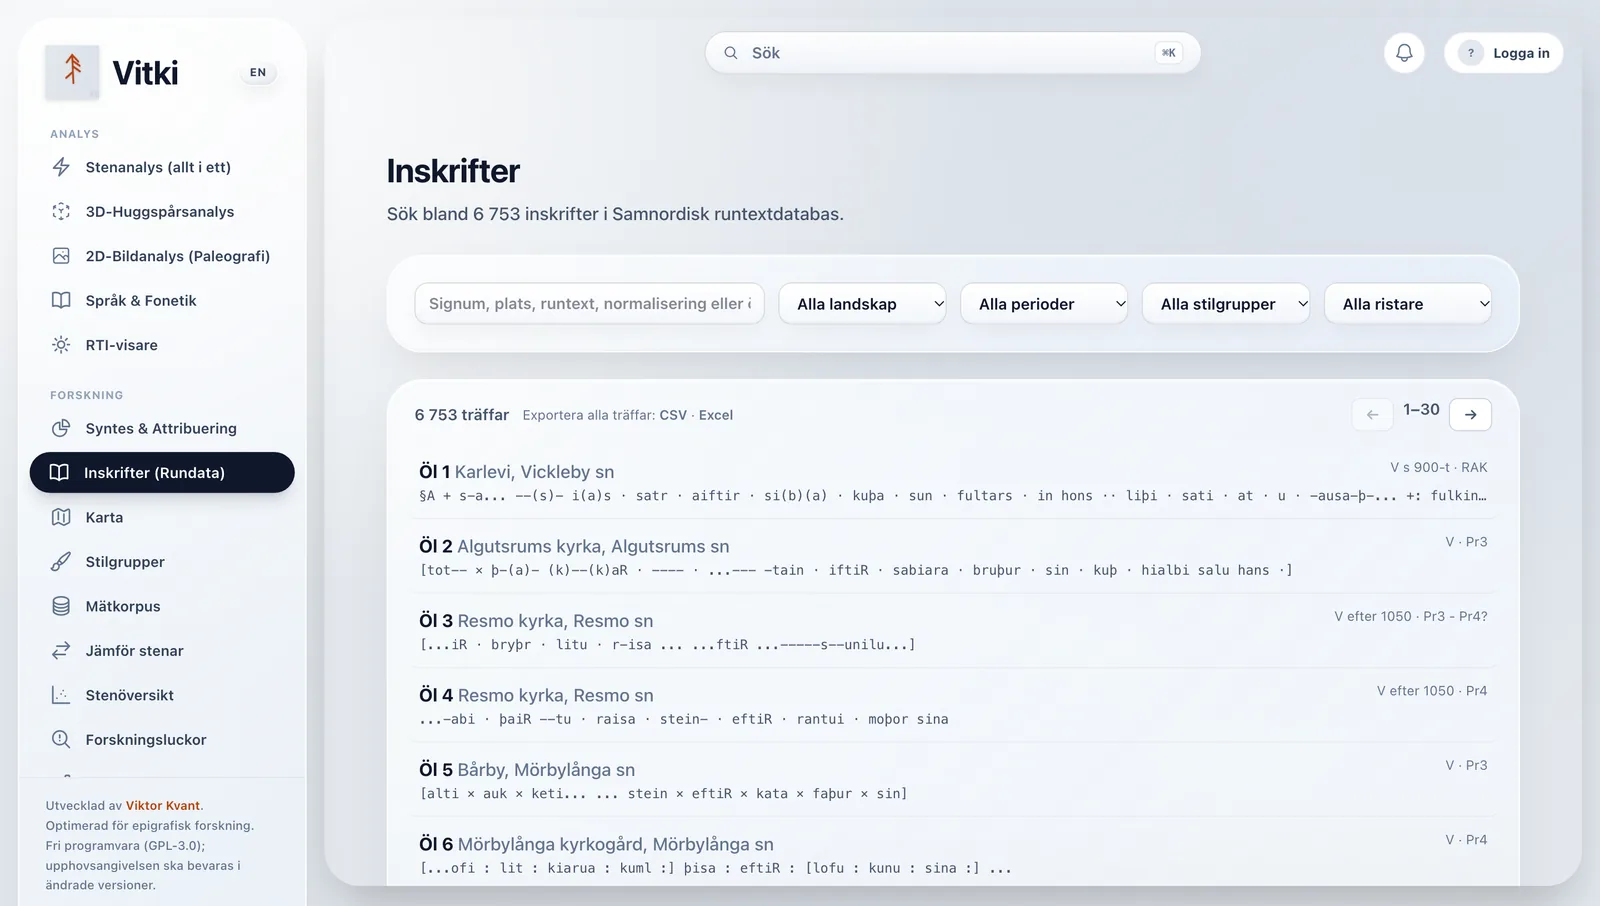
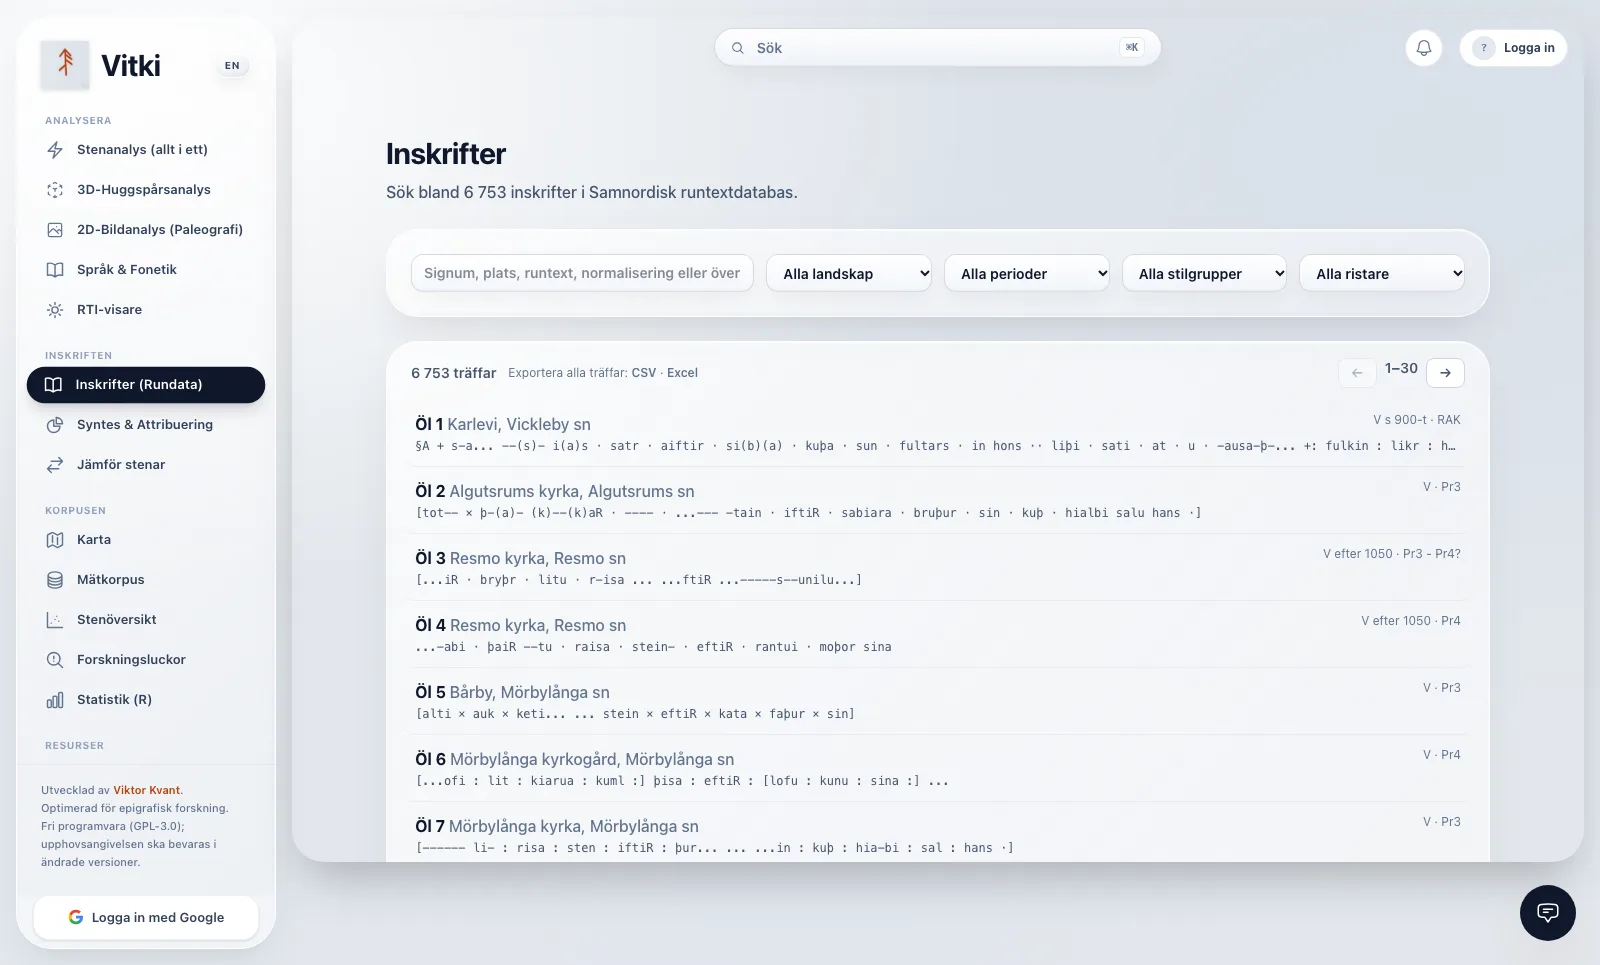
Nya skärmdumpar med nya menyn och artikeldata på textmodel-18
Hemsidans fem appbilder är omtagna ur den byggda appen med den nya
fyrgruppsmenyn (karta, inskrifter, statistik, forskningsluckor, stenöversikt).
Artikelbygget för 'Runorna som fattas' läser nu mask4-generationen som
VALIDATION bygger på, siffrorna är omräknade på textmodel-18 och utkastet i
Firestore är uppdaterat (opublicerat). Svagheten Namnen fick en mening om
namnkvoten: åtta maskerade luckor vunna, ingen förlorad.

diff --git a/utdata/modellartikel/runstenar.py b/utdata/modellartikel/runstenar.py
@@ -1,0 +1,134 @@
+"""Artikelns siffror uppdelade efter vad inskriften står på (2026-10-17, Viktors regel: runstenar först, andra föremål
+redovisas för sig). Runstenar = Rundatas föremål "runsten", också fragment och försvunna stenar; andra stenar = gravhällar,
+berghällar, block m.m.; lösa föremål = metall, ben, horn, trä m.m. Läsprovet (kalib_klass.json), maskeringsprovet
+(maskklass_f*.json), de verkliga luckorna med den korsvaliderade kalibreringen (klass_alla.json) och nattkörningen
+(sammanstallning.json, med utgivarnas status som i batch_status.py). Skriver runstenar.json.
+    cd aagaard-research && PYTHONPATH=. .venv/bin/python utdata/modellartikel/runstenar.py"""
+import json
+import os
+import re
+import sys
+import zlib
+from collections import Counter, defaultdict
+
+import numpy as np
+
+HERE = os.path.dirname(os.path.abspath(__file__))
+ROOT = os.path.abspath(os.path.join(HERE, "..", ".."))
+sys.path.insert(0, ROOT)
+import scripts.runlm_gap_calibrate as C  # noqa: E402
+import scripts.runlm_gaps as G  # noqa: E402
+from scripts.luckprov import status_of  # noqa: E402
+from src import runlm as rl  # noqa: E402
+from src.textmodel import gap_class, name_keys  # noqa: E402
+
+F = os.path.join(ROOT, "utdata", "runlm_forfining")
+recs = rl.load_rundata()
+by = {r["signum"]: r for r in recs}
+KINDS = ("runsten", "annan sten", "lösa föremål")
+
+
+def kind(sig):
+    r = by[sig]
+    if "runsten" in (r.get("object") or "").lower():
+        return "runsten"
+    return "annan sten" if r.get("material_type") == "sten" else "lösa föremål"
+
+
+out = {}
+V = [r for r in recs if rl.viking(r) and r.get("transliteration") and r.get("normalization")]
+out["viking"] = dict(Counter(kind(r["signum"]) for r in V))
+
+# --- the reading test
+kk = json.load(open(os.path.join(F, "kalib_tm14_egend.json")))  # textmodel-15: the carver's own divider rate
+rd = defaultdict(lambda: {"inscriptions": set(), "words": 0, "same": 0, "span": 0})
+for sig, same, span in kk["per_word"]:
+    g = rd[kind(sig)]
+    g["inscriptions"].add(sig); g["words"] += 1; g["same"] += bool(same); g["span"] += bool(span)
+out["reading"] = {k: {"inscriptions": len(g["inscriptions"]), "words": g["words"], "same": g["same"] / g["words"], "span": g["span"] / g["words"]}
+                  for k, g in rd.items()}
+
+# --- the masking test
+mk = defaultdict(lambda: [0, 0])
+for f in range(5):
+    for x in json.load(open(os.path.join(F, f"mask4_f{f}.json")))["rows"]:
+        g = mk[(kind(x["sig"]), x["kind"])]
+        g[0] += 1; g[1] += bool(x["word_ok"])
+out["masking"] = {f"{k}|{t}": {"n": n, "right": r / n} for (k, t), (n, r) in mk.items()}
+
+
+# --- the real gaps the editors filled, with the cross-validated calibration (as kalibrering.json, split by kind)
+def interpreted(sig):
+    n = re.sub(r"<[^>]*>", " ", by[sig].get("normalization") or "") if sig in by else ""
+    return sum(1 for _, p in rl.sections(n) for w in rl.norm_words(p) if not w.startswith("...")) >= 2
+
+
+known = lambda x: bool(x["word"]) and x["word"] != "<unk>"  # noqa: E731
+agree = lambda x: bool(x["agrees"]) or rl.same_word(x["word"].lstrip("§"), x["rundata"])  # noqa: E731
+rest = [x for x in json.load(open(os.path.join(F, "klass3_alla.json")))["rows"] if interpreted(x["sig"]) and x["status"] == "återställt"]
+val = [x for x in rest if known(x)]
+top, names = C.top_words(recs), name_keys(recs)
+# textmodel-15: the calibration the app uses (scripts/runlm_gap_calibrate.py, restored + documented + masked gaps,
+# at the documented level), cross-validated: each restored gap gets its percentage from a fit without its stone
+X = np.array([C.features(x["p"], gap_class(x["word"], top, names, True), len(x["fill"]), 4, False) for x in val])
+y = np.array([1.0 if agree(x) else 0.0 for x in val])
+fold = np.array([zlib.crc32(x["sig"].encode()) % 5 for x in val])
+X1, y1, s1, _ = C.documented_rows(os.path.join(F, "dok_egend"), top, names, 4, whole=True)
+X2, y2, s2, _, _ = C.masked_rows(os.path.join(F, "mask3"), top, names, by, 4)
+f1 = np.array([zlib.crc32(s_.encode()) % 5 for s_ in s1])
+f2 = np.array([zlib.crc32(s_.encode()) % 5 for s_ in s2])
+src = lambda n, a, b: np.hstack([np.full((n, 1), a), np.full((n, 1), b)])  # noqa: E731
+XA = np.vstack([np.hstack([X, src(len(X), 0, 0)]), np.hstack([X1, src(len(X1), 0, 1)]), np.hstack([X2, src(len(X2), 1, 0)])])
+yA, fA = np.concatenate([y, y1, y2]), np.concatenate([fold, f1, f2])
+q = np.zeros(len(y))
+for k in range(5):
+    w = C.fit(XA[fA != k], yA[fA != k])
+    q[fold == k] = 1 / (1 + np.exp(-(np.hstack([X[fold == k], src(int((fold == k).sum()), 0, 1)]) @ w)))
+ks = np.array([kind(x["sig"]) for x in val])
+acls = [gap_class(re.sub(r"[\[\]\"(){}.,?…]", "", x["rundata"]), top, names) for x in val]
+gaps = {}
+for k in KINDS:
+    m = ks == k
+    bins = []
+    for lo, hi in ((0, .5), (.5, .8), (.8, .95), (.95, 1.01)):
+        b = m & (q >= lo) & (q < hi)
+        bins.append({"lo": lo, "hi": hi, "n": int(b.sum()), "said": float(q[b].mean()) if b.any() else None, "right": float(y[b].mean()) if b.any() else None})
+    cls = {c: {"n": int(sum(1 for i in range(len(val)) if m[i] and acls[i] == c)),
+               "right": float(np.mean([y[i] for i in range(len(val)) if m[i] and acls[i] == c])) if any(m[i] and acls[i] == c for i in range(len(val))) else None}
+           for c in (0, 1, 2)}
+    gaps[k] = {"restored": sum(1 for x in rest if kind(x["sig"]) == k), "stones": len({x["sig"] for x in rest if kind(x["sig"]) == k}),
+               "known": int(m.sum()), "right": float(y[m].mean()), "bins": bins, "by_class": cls}
+out["gaps"] = gaps
+out["documented"] = json.load(open(os.path.join(F, "dok_bins.json")))  # utdata/runlm_forfining/dok_bins.py
+
+# --- the night run over all inscriptions with gaps, and what the editors did with each gap
+S = json.load(open(os.path.join(ROOT, "utdata", "textmodel_batch", "sammanstallning.json")))
+rec = {r["signum"]: r for r in G.SW}
+idx = defaultdict(list)
+for sig, r in rec.items():
+    for groups, gap, w_, tok in G.gaps_of(r):
+        idx[(sig, groups[gap[0]])].append((gap[1], gap[2], tok))
+
+
+def band(x):
+    if not x["word"] or x["word"] == "<unk>":
+        return "inget förslag"
+    p = x["p"]
+    return "≥95" if p >= 0.95 else "80–95" if p >= 0.8 else "50–80" if p >= 0.5 else "<50"
+
+
+batch = {}
+for k in KINDS:
+    rows = [x for x in S["rows"] if kind(x["signum"]) == k]
+    st = defaultdict(Counter)
+    for x in rows:
+        m_ = [t for a, b, t in idx.get((x["signum"], x["carved"]), []) if a < x["end"] and x["start"] < b]
+        s_ = status_of(m_[0]) if m_ else ("utanför provet" if x["signum"] in rec else "ej svensk")
+        st[s_][band(x)] += 1
+    batch[k] = {"inscriptions": len({x["signum"] for x in rows}), "gaps": len(rows), "too_few": sum(1 for s in S["missing"] if kind(s) == k),
+                "bands": dict(Counter(map(band, rows))), "boundaries": sum(x["boundary"] for x in rows),
+                "status": {s_: dict(c) for s_, c in st.items()}}
+out["batch"] = batch
+json.dump(out, open(os.path.join(HERE, "runstenar.json"), "w"), ensure_ascii=False, indent=1)
+print(json.dumps({k: v for k, v in out.items() if k != "gaps"}, ensure_ascii=False, indent=1)[:3500])
+print(json.dumps(out["gaps"]["runsten"], ensure_ascii=False, indent=1))

diff --git a/utdata/blogg/build/build_modellartikel.py b/utdata/blogg/build/build_modellartikel.py
@@ -309,7 +309,7 @@ Liknande verktyg har byggts för grekiska inskrifter, där modellen Ithaca före
 Det återstår arbete innan modellen kommer ut i appen:
 
 - **Spår ur skanningarna.** I dag räknar modellen bara med spår som någon har lagt in för hand, men läsaren som ska hämta dem direkt ur 3D-skanningen är på god väg. Bistavarna, som skiljer runorna åt, går inte att lita på i de uttunnade spårlinjerna – de läses nu i stället ur själva djupbilden, viktade efter hur djupt de är huggna. I ett första prov på {SCN['stones']} skannade stenar, där hela ord maskerades och fylldes av en modell som aldrig sett stenen, steg andelen rätt från {svn(100 * SCN['utan'], 1)} till {svn(100 * SCN['skanner'], 1)} procent när skannerns spår fick hjälpa till – och med spåren slumpvis omflyttade mellan stenens runor försvann hela vinsten. Det är alltså stenen som läses, inte en räknelek. Vid svårt vittrade partier kan spåren vilseleda, så panelen visar vad skannern ser – bistavarna med huggdjup och de möjliga runorna – och spåren räknas först när användaren har bekräftat dem. En runa med fler djupa bistavar än någon runa har, en möjlig bindruna, föreslår inget alls.
-- **Namnen.** Namn blir rätt i {svn(PCT_CLS[2])} procent av utgivarnas luckor, mot {svn(PCT_CLS[0])} för formelord. De flesta fel i de dokumenterade luckorna gäller namn.
+- **Namnen.** Namn blir rätt i {svn(PCT_CLS[2])} procent av utgivarnas luckor, mot {svn(PCT_CLS[0])} för formelord. De flesta fel i de dokumenterade luckorna gäller namn. Den senaste versionen tog ett steg just här: namnbyggarens förslag föll tidigare bort ur kandidatlistan innan de hann vägas, och när de fick en egen plats (textmodel-18) vann modellen åtta maskerade luckor – bland dem namnen *Guðfastr* och *Þormóðr* – utan att förlora någon.
 - **Fler texter från Danmark och Norge**, så att måttstocken blir lika rättvis för alla länder.
 - **Böjningen.** Modellen kan inte kasus och kongruens. Det gäller dock bara omkring ett ord av hundra i läsprovet, mest namn i fel kasus. Det mesta av det som ser ut som fel form är i stället olika normaliseringar i Rundata, som *sin* och *sinn*.
 - **Facit.** Utgivarnas ifyllning är själv en bedömning. Maskeringsprovet och de dokumenterade luckorna har säkrare facit.
@@ -541,7 +541,7 @@ Similar tools have been built for Greek inscriptions, where the model Ithaca pro
 Work remains before the model comes out in the app:
 
 - **Traces from the scans.** Today the model only counts traces that someone has entered by hand, but the reader that will take them straight from the 3D scan is well under way. The branches, which tell the runes apart, cannot be trusted in the thinned groove lines – they are now read from the depth image itself instead, weighted by how deeply they are carved. In a first test on {SCN['stones']} scanned stones, where whole words were masked and filled by a model that had never seen the stone, the share right rose from {enn(100 * SCN['utan'], 1)} to {enn(100 * SCN['skanner'], 1)} per cent when the scanner's traces were allowed to help – and with the traces randomly reshuffled among the stone's runes the whole gain vanished. So it is the stone that is being read, not an exercise in numbers. At badly weathered patches the traces can mislead, so the panel shows what the scanner sees – the branches with their carving depth and the possible runes – and the traces only count once the user has confirmed them. A rune with more deep branches than any rune holds, a possible bind rune, proposes nothing at all.
-- **Names.** Names are right in {enn(PCT_CLS[2])} per cent of the editors' gaps, against {enn(PCT_CLS[0])} for formula words. Most errors in the documented gaps concern names.
+- **Names.** Names are right in {enn(PCT_CLS[2])} per cent of the editors' gaps, against {enn(PCT_CLS[0])} for formula words. Most errors in the documented gaps concern names. The latest version took a step right here: the name builder's proposals used to be cut from the candidate list before they could be weighed, and when they were given a place of their own (textmodel-18) the model won eight masked gaps – among them the names *Guðfastr* and *Þormóðr* – without losing any.
 - **More texts from Denmark and Norway**, so that the yardstick is equally fair to every country.
 - **Inflection.** The model does not know case and agreement. That concerns only about one word in a hundred in the reading test, however, mostly names in the wrong case. Most of what looks like a wrong form is instead different normalizations in Rundata, such as *sin* and *sinn*.
 - **The answer key.** The editors' restoration is itself a judgement. The masking test and the documented gaps have a firmer answer.

diff --git a/utdata/blogg/build/build_modellartikel_data.py b/utdata/blogg/build/build_modellartikel_data.py
@@ -35,8 +35,9 @@ D["reading"] = {"inscriptions": RT["n_inscriptions"], "words": RT["n_gold"], "sa
                 "by_kind": RS["reading"]}
 assert RT["n_inscriptions"] == 808 and pr(RT["same"]) == 84 and pr(RT["span"]) == 95
 
-# --- the masking test (mask3), the hard masking test (svart: only words outside the 50 commonest) and the traces
-mask = [x for k in range(5) for x in J(F, f"mask3_f{k}.json")["rows"] if rs(x["sig"])]
+# --- the masking test (mask4, the generation textmodel-18's VALIDATION uses), the hard masking test (svart: only
+# words outside the 50 commonest) and the traces
+mask = [x for k in range(5) for x in J(F, f"mask4_f{k}.json")["rows"] if rs(x["sig"])]
 hard = [x for k in range(5) for x in J(F, f"svart_f{k}.json")["rows"] if rs(x["sig"])]
 G = tm._records()["G"]
 
@@ -66,7 +67,7 @@ D["hard"] = {kind: {"n": sum(x["kind"] == kind for x in hard), "right": float(np
                     "cal": cal_bins([x for x in hard if x["kind"] == kind])} for kind in ("inne i ord", "helt ord")}
 D["hard"]["pooled"] = cal_bins(hard)
 assert pr(D["masking"]["inne i ord"]["right"]) == pr(tm.VALIDATION["inside_word"]) == 76
-assert pr(D["masking"]["helt ord"]["right"]) == pr(tm.VALIDATION["whole_word"]) == 60
+assert pr(D["masking"]["helt ord"]["right"]) == pr(tm.VALIDATION["whole_word"]) == 59
 assert pr(D["hard"]["inne i ord"]["right"]) == 47 and D["hard"]["inne i ord"]["cal"]["ece"] < 0.06
 assert D["hard"]["pooled"]["sure_n"] == 115 and 0.95 <= D["hard"]["pooled"]["sure_right_sw"] <= 0.96
 assert 0.91 <= D["hard"]["pooled"]["sure_right"] <= 0.93 and 0.80 <= D["hard"]["pooled"]["band_right_sw"] <= 0.87
